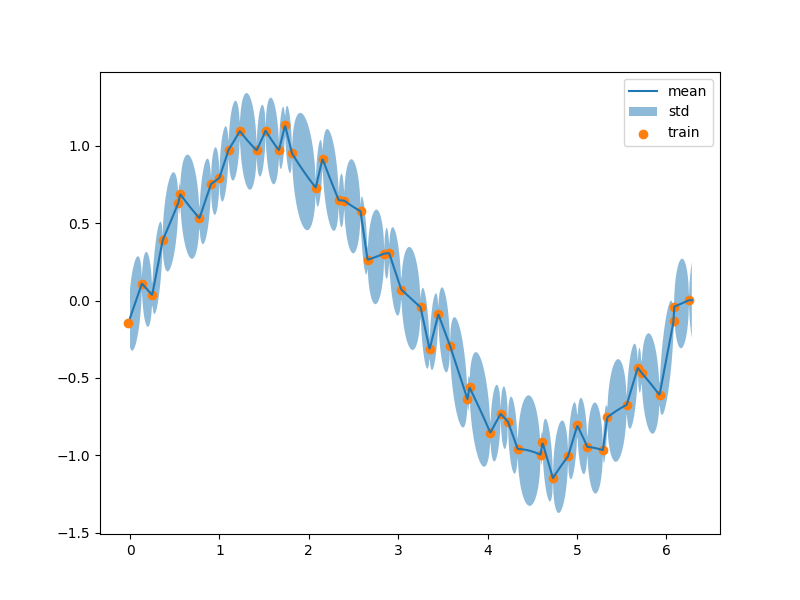
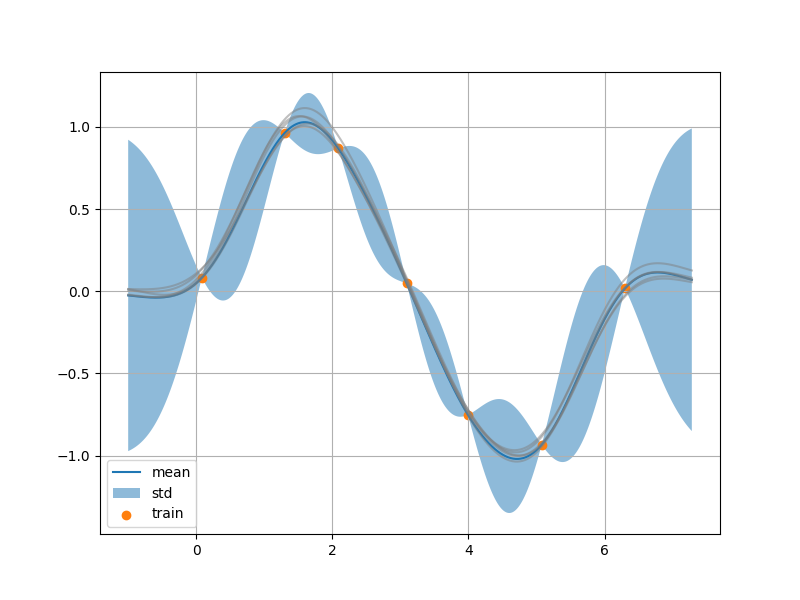
[add] plot gpr

diff --git a/gpr.py b/gpr.py
@@ -18,7 +18,7 @@ def rbf(theta_1: float, theta_2: float):
     Returns:
         callable[(float, float), float]: 動径基底関数
     """
-    return lambda x, y: theta_1 * np.exp(- np.abs(x - y) / theta_2)
+    return lambda x, y: theta_1 * np.exp(- (x - y) ** 2 / theta_2)
 
 
 class GaussianProcessRegression:
@@ -81,22 +81,32 @@ if __name__ == "__main__":
     gpr = GaussianProcessRegression(kernel)
 
     # テストデータ
-    x = np.linspace(0, 2 * np.pi, 50) + np.random.normal(0, 0.05, 50)
-    y = np.sin(x) + np.random.normal(0, 0.1, 50)
+    SAMPLE = 7
+
+    x = np.linspace(0, 2 * np.pi, SAMPLE) + np.random.normal(0, 0.2, SAMPLE)
+    y = np.sin(x)
 
     gpr.fit(x, y)
 
     # 予測
-    x_test = np.linspace(0, 2 * np.pi, 1000)
+    x_test = np.linspace(-1, 2 * np.pi + 1, 900)
     mu, var = gpr.predict(x_test)
+
+    print(mu)
+    print(var)
 
     sigma = np.sqrt(var.diagonal())
 
     fig, ax = plt.subplots(figsize=(8, 6), dpi=100)
 
+    # サンプルパス
+    samples = np.random.multivariate_normal(mu, var / 900, 5)
+
     ax.plot(x_test, mu, label="mean")
+    ax.plot(x_test, samples.T, color="gray", alpha=0.5)
     ax.fill_between(x_test, mu - sigma, mu + sigma, alpha=0.5, label="std")
     ax.scatter(x, y, label="train")
     ax.legend()
+    ax.grid()
 
     fig.savefig("gpr.png")
